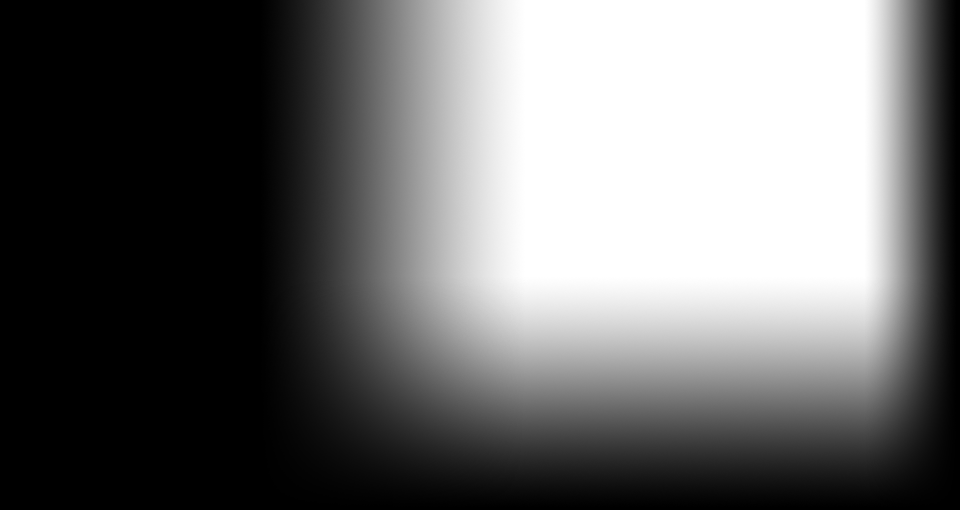
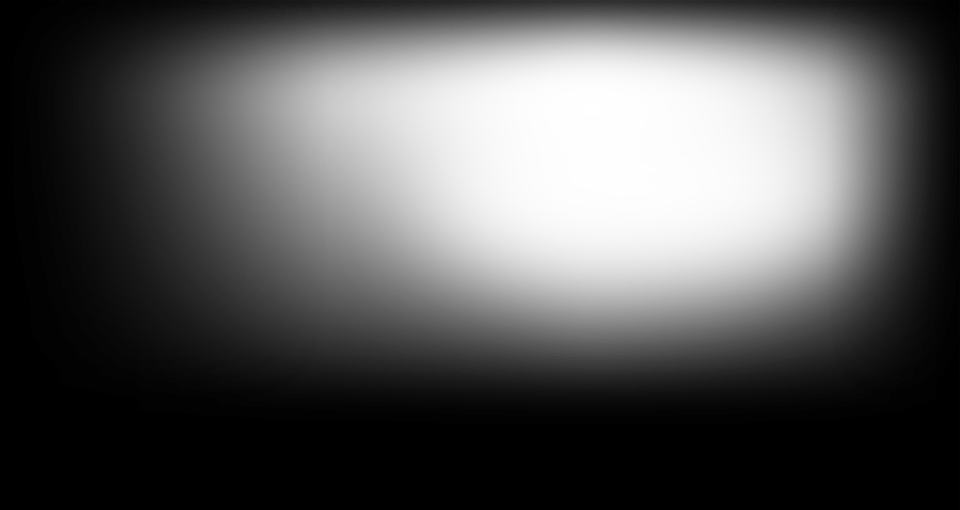
Page header BG images

diff --git a/app/views/fiu/hub-apprentices.html b/app/views/fiu/hub-apprentices.html
@@ -27,8 +27,8 @@
 	<div class="fiu-page-header">
         <div class="fiu-width-container">
             <div class="fiu-page-header__image-wrap">
-                <img src="/fiu/assets/images/page-headers/page-header-mask.png" alt="" class="fiu-page-header__image-mask" />
-                <img src="/fiu/assets/images/page-headers/apprentice-sparks.jpg" alt="Apprentice" class="fiu-page-header__image" />
+                <span class="fiu-page-header__image-mask"></span>
+                <img src="/fiu/assets/images/page-headers/apprentice-hozanna-sparks.jpg" alt="Apprentice" class="fiu-page-header__image" />
             </div>
             <div class="govuk-breadcrumbs fiu-page-header__breadcrumbs">
                 <ol class="govuk-breadcrumbs__list">

diff --git a/app/views/fiu/hub-employers.html b/app/views/fiu/hub-employers.html
@@ -27,6 +27,10 @@
 	<!-- Page header -->
     <div class="fiu-page-header">
         <div class="fiu-width-container">
+            <div class="fiu-page-header__image-wrap">
+                <span class="fiu-page-header__image-mask"></span>
+                <img src="/fiu/assets/images/page-headers/employer-gail.jpg" alt="Apprentice" class="fiu-page-header__image" />
+            </div>
             <div class="govuk-breadcrumbs fiu-page-header__breadcrumbs">
                 <ol class="govuk-breadcrumbs__list">
                     <li class="govuk-breadcrumbs__list-item">

diff --git a/src/fiu/components/page-header/_page-header.scss b/src/fiu/components/page-header/_page-header.scss
@@ -1,6 +1,6 @@
 .fiu-page-header {
     @include fiu-typography-common;
-    background-color: $black;
+    background-color: #000;
     padding: 1px 0;
     color: $white;
     position: relative;
@@ -85,4 +85,7 @@
     top: 0;
     z-index: 2;
     width: 100%;
+    height: 100%;
+    background: url("../assets/images/page-headers/page-header-mask.png");
+    background-size: cover;
 }
